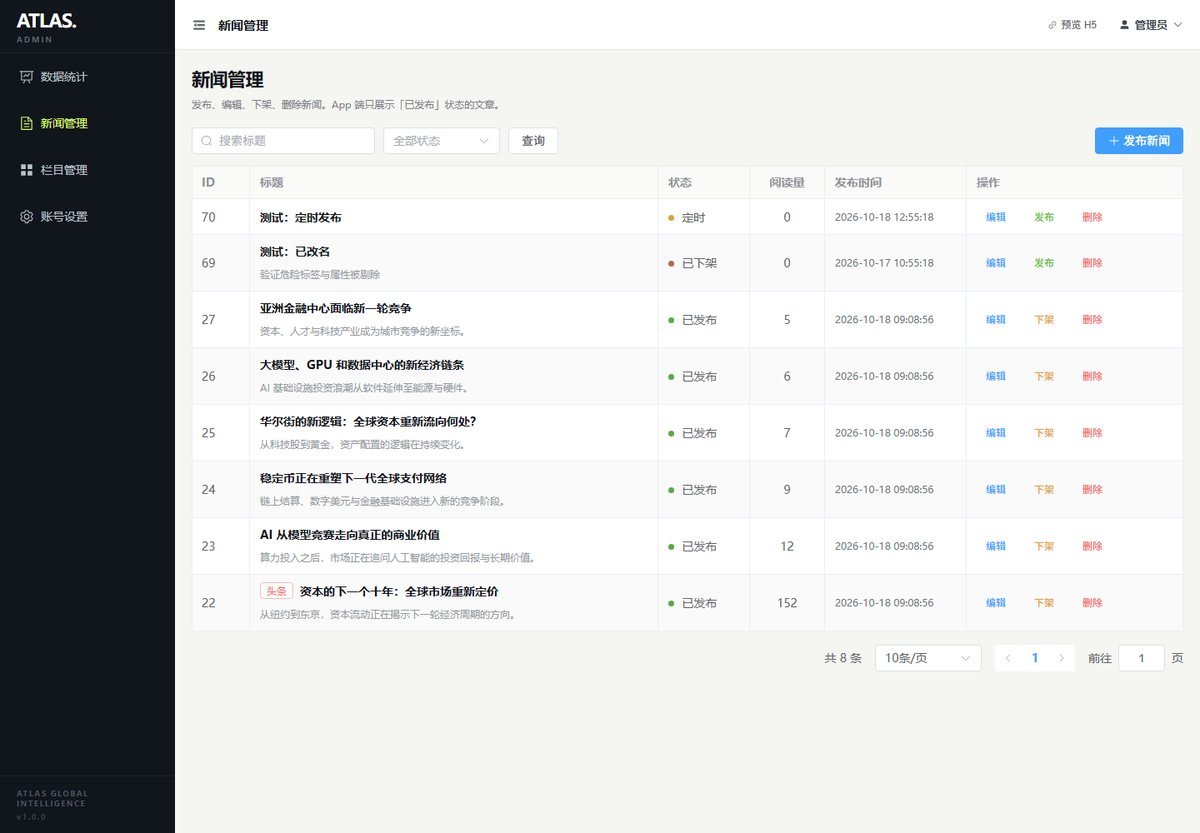
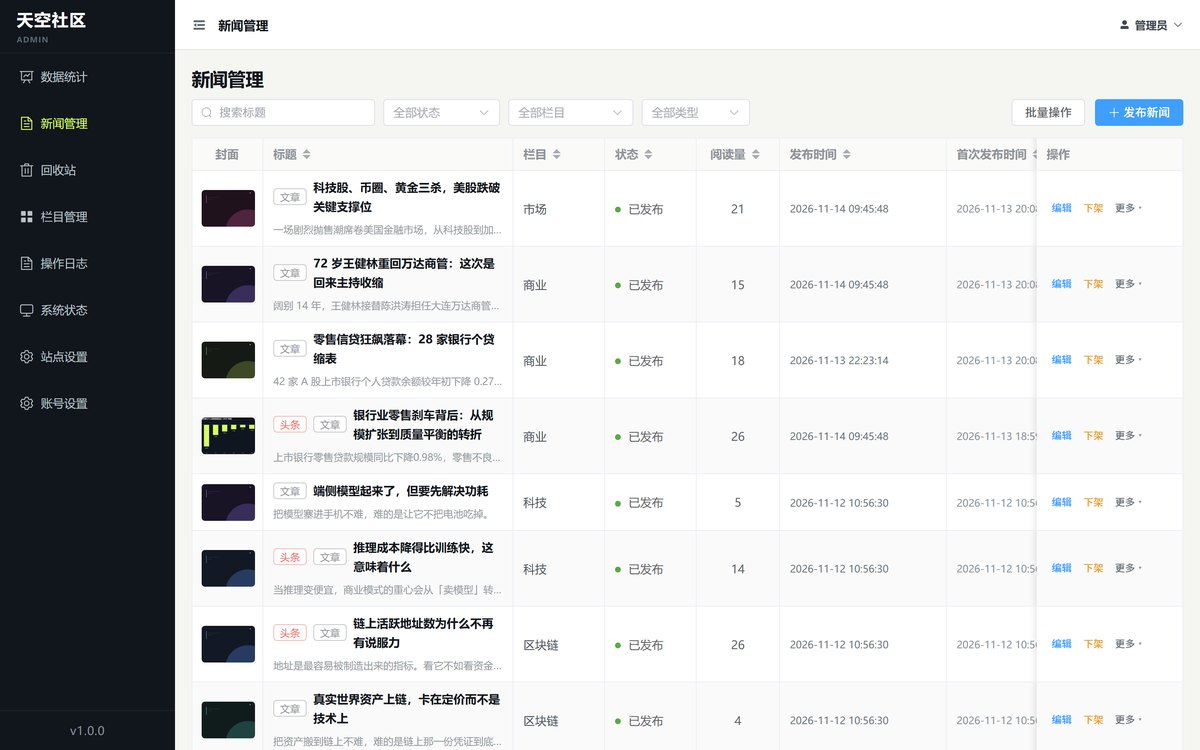
assets: refresh admin screenshots from the live panel
The five admin images were captured on 2026-10-18, before the panel was
rebuilt: 6 published articles, no cover thumbnails, no content-type
toggle, no disclaimer setting, sidebar still branded ATLAS.

Recaptured through Chrome DevTools Protocol against the running panel
(token injected via localStorage, no credentials written to the repo):
now 37 published articles, cover column, 文章/资讯 content types,
disclaimer options, sidebar reads 天空社区.

Copy follows the new UI:
- admin description mentions both content types and the three publish modes
- category management notes drag-to-reorder and per-category headline
- add the two reading-count semantics verified in AdminStatsController:
  the dashboard card includes soft-deleted articles, the Excel export
  filters them out, and the 7/30/90 day columns are always all present

diff --git a/work-sky.html b/work-sky.html
@@ -89,7 +89,7 @@ footer a:hover{color:var(--accent)}
     </p>
     <p>
       交付范围是四端：Android 与 iOS 双端 App、Java 服务端、Vue3 管理后台、H5 分享落地页。
-      后台负责新闻的富文本编辑、配图、摘要、定时发布与草稿、栏目管理，以及阅读量趋势和 Excel 导出。
+      后台负责内容发布：文章和短资讯两种形态，富文本编辑、配图、摘要、栏目归属，立即 / 定时 / 存草稿三种发布方式；另有栏目管理（可拖拽排序、指定头条）和数据统计（阅读量趋势、栏目分布、Top 10、Excel 导出）。
       登录只做手机号加短信验证码，未登录可以正常浏览全部内容。
     </p>
     <ul class="tags">
@@ -155,12 +155,12 @@ footer a:hover{color:var(--accent)}
   <section>
     <h2>管理后台</h2>
     <div class="gallery wide">
-      <a href="assets/admin-dashboard.jpg" target="_blank" rel="noopener" title="查看原图"><img src="assets/admin-dashboard.jpg" alt="数据统计" width="520" height="361" loading="lazy"></a>
-      <a href="assets/admin-articles.jpg" target="_blank" rel="noopener" title="查看原图"><img src="assets/admin-articles.jpg" alt="新闻管理" width="520" height="361" loading="lazy"></a>
-      <a href="assets/admin-article-edit.jpg" target="_blank" rel="noopener" title="查看原图"><img src="assets/admin-article-edit.jpg" alt="富文本编辑与发布设置" width="520" height="361" loading="lazy"></a>
-      <a href="assets/admin-categories.jpg" target="_blank" rel="noopener" title="查看原图"><img src="assets/admin-categories.jpg" alt="栏目管理" width="520" height="361" loading="lazy"></a>
+      <a href="assets/admin-dashboard.jpg" target="_blank" rel="noopener" title="查看原图"><img src="assets/admin-dashboard.jpg" alt="数据统计" width="520" height="325" loading="lazy"></a>
+      <a href="assets/admin-articles.jpg" target="_blank" rel="noopener" title="查看原图"><img src="assets/admin-articles.jpg" alt="新闻管理" width="520" height="325" loading="lazy"></a>
+      <a href="assets/admin-article-edit.jpg" target="_blank" rel="noopener" title="查看原图"><img src="assets/admin-article-edit.jpg" alt="富文本编辑与发布设置" width="520" height="325" loading="lazy"></a>
+      <a href="assets/admin-categories.jpg" target="_blank" rel="noopener" title="查看原图"><img src="assets/admin-categories.jpg" alt="栏目管理" width="520" height="325" loading="lazy"></a>
     </div>
-    <p class="gal-hint">左右滑动查看。后台是独立的 Vue3 + Element Plus 单页应用，挂在 <code>/admin/</code> 子路径下。</p>
+    <p class="gal-hint">左右滑动查看。后台是独立的 Vue3 + Element Plus 单页应用，挂在 <code>/admin/</code> 子路径下。统计支持近 7 / 30 / 90 天与自定义区间，栏目顺序可拖拽调整，改完 App 端下次进入即生效。</p>
   </section>
 
   <section>
@@ -172,6 +172,7 @@ footer a:hover{color:var(--accent)}
       <li><b>定时发布与草稿</b>。发布方式分立即、定时、存草稿三种。到点由服务端触发发布，不依赖打开后台，App 端只显示已发布状态的文章。</li>
       <li><b>本机存储的边界</b>。浏览记录和收藏都只存在设备本地，不做云端同步；后台能看到的是阅读量这类匿名统计，不涉及用户行为画像。</li>
       <li><b>分享链路</b>。海报由服务端提供数据、客户端合成，含标题、摘要、配图和二维码；复制链接走 H5 落地页，页面本身 1.1 KB、零外部资源，底部放下载引导，微信内打开即可阅读。</li>
+      <li><b>阅读量的两种口径</b>。页面上「总阅读量」卡片含已删除文章，Excel 导出则按 <code>deleted = 0</code> 过滤、不含回收站——内容盘点不该算已删的稿子，但运营拿导出行数去对总数会对不上，所以两处都写明了口径。阅读量给四列：累计取文章自身的计数，近 7 / 30 / 90 天从阅读日志算，三个区间固定并存，不跟页面选的区间联动。</li>
       <li><b>登录与权限</b>。App 端手机号加短信验证码，登录态本地保持；未登录可浏览全部内容。后台单独一套账号体系，密码用 BCrypt 哈希，不存明文，连续 5 次错误锁定 10 分钟，登录有效期 7 天。</li>
     </ul>
   </section>
